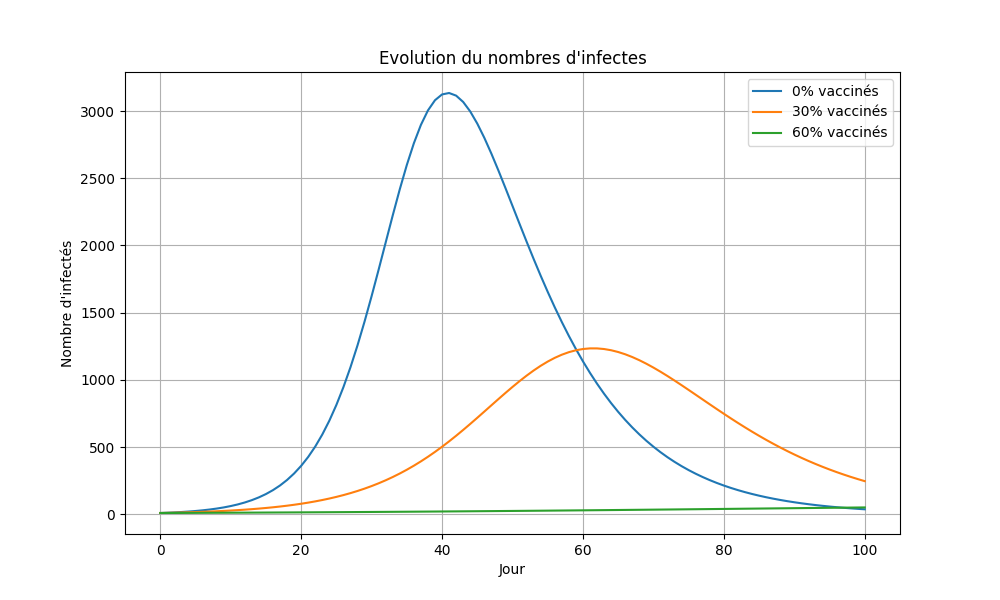
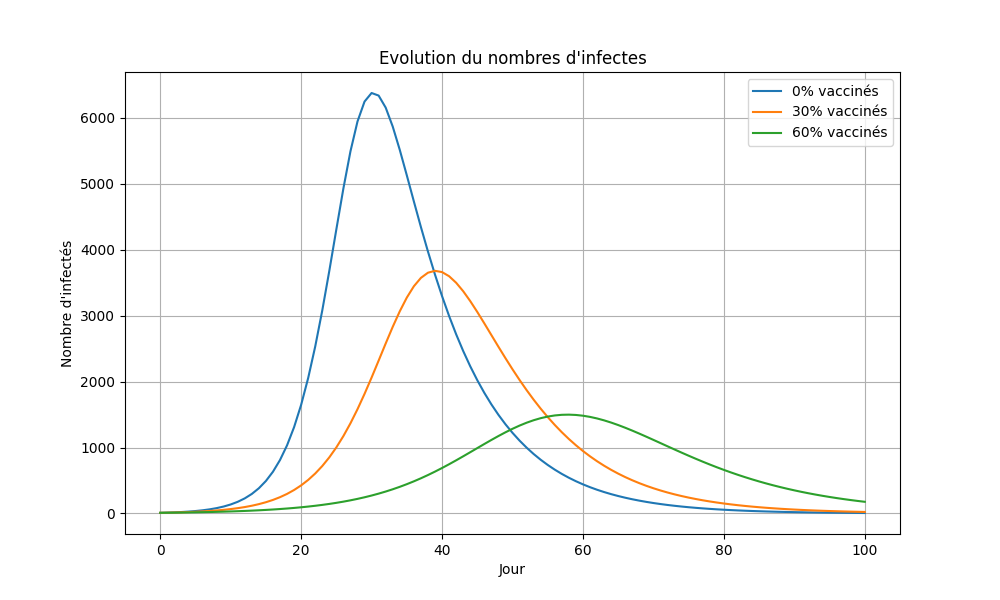
simulation fonctionnel

diff --git a/main.py b/main.py
@@ -37,14 +37,14 @@ def simulate_sir(S0, I0, R0, transmission, retrait, jours):
     R = [R0]
     for t in range(0, jours):
         # TODO : calculer dS
-        dS = I 
+        dS = N - S[t] - I[t] - R[t]
         # TODO : calculer dI
-        dI = transmission * float(I[t]) * (S[t] / N)
+        dI = transmission * I[t] * (S[t] / N)
         # TODO : calculer dR
-        dR = retrait * float(I[t])
+        dR = retrait * I[t]
         # TODO : mettre à jour S, I, R
-        S.append(S[t] - dI)
-        I.append(I[t] + dI - dR)
+        S.append(S[t] + dS)
+        I.append(I[t] + dI)
         R.append(R[t] + dR)
     return np.array(S), np.array(I), np.array(R)
   
@@ -63,7 +63,7 @@ for label, pv in scenarios.items():
     S, I, R = simulate_sir(S0, I0, R0, transmission, retrait, jours)
     # TODO : tracer I(t)
     plt.plot(I, label=label)
-plt.title("Evolution du nombres d'infectes")
+plt.title("Evolution du nombres d'infectes en fonction de la vaccination.")
 plt.xlabel("Jour")
 plt.ylabel("Nombre d'infectés")
 plt.legend()